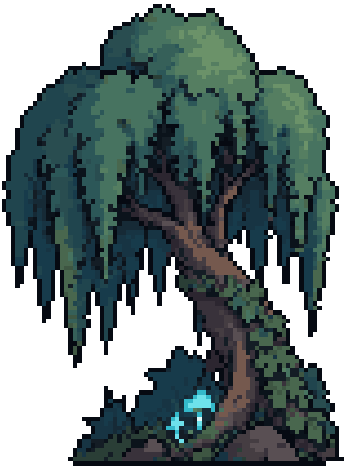
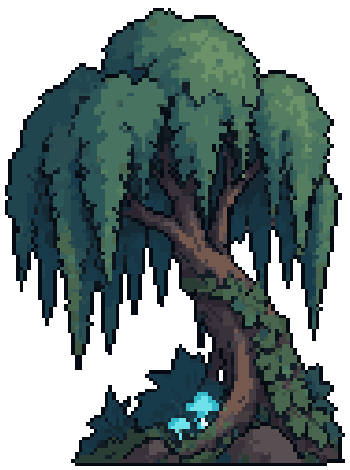
Gros arbres du fond : grain de 5 px d'ecran (6 etait trop gros)

Changed region(s): [[0.0, 0.0298, 1.0, 1.0], [0.4286, 0.0, 0.7143, 0.1191]]

diff --git a/src/data/pixel_fixed.js b/src/data/pixel_fixed.js
@@ -3,14 +3,14 @@
 // BootScene les affiche sans lissage (NEAREST) ; import_codex_assets.py ne
 // les réécrit pas. `f` : px de l'image = 1 pixel dessiné ; `set` : le lot.
 const PIXEL_FIXED = {
-  "assets/decors/arbres_frames/arbre_0.png": {"f":4.44,"set":"files:assets/decors/arbres_frames/arbre_0.png"},
-  "assets/decors/arbres_frames/arbre_1.png": {"f":4.44,"set":"files:assets/decors/arbres_frames/arbre_1.png"},
-  "assets/decors/arbres_frames/arbre_2.png": {"f":4.44,"set":"files:assets/decors/arbres_frames/arbre_2.png"},
-  "assets/decors/arbres_frames/arbre_3.png": {"f":4.44,"set":"files:assets/decors/arbres_frames/arbre_3.png"},
-  "assets/decors/arbres_frames/arbre_4.png": {"f":4.44,"set":"files:assets/decors/arbres_frames/arbre_4.png"},
-  "assets/decors/arbres_frames/arbre_5.png": {"f":4.44,"set":"files:assets/decors/arbres_frames/arbre_5.png"},
-  "assets/decors/arbres_frames/arbre_6.png": {"f":4.44,"set":"files:assets/decors/arbres_frames/arbre_6.png"},
-  "assets/decors/arbres_frames/arbre_7.png": {"f":4.44,"set":"files:assets/decors/arbres_frames/arbre_7.png"},
+  "assets/decors/arbres_frames/arbre_0.png": {"f":3.7,"set":"files:assets/decors/arbres_frames/arbre_0.png"},
+  "assets/decors/arbres_frames/arbre_1.png": {"f":3.7,"set":"files:assets/decors/arbres_frames/arbre_1.png"},
+  "assets/decors/arbres_frames/arbre_2.png": {"f":3.7,"set":"files:assets/decors/arbres_frames/arbre_2.png"},
+  "assets/decors/arbres_frames/arbre_3.png": {"f":3.7,"set":"files:assets/decors/arbres_frames/arbre_3.png"},
+  "assets/decors/arbres_frames/arbre_4.png": {"f":3.7,"set":"files:assets/decors/arbres_frames/arbre_4.png"},
+  "assets/decors/arbres_frames/arbre_5.png": {"f":3.7,"set":"files:assets/decors/arbres_frames/arbre_5.png"},
+  "assets/decors/arbres_frames/arbre_6.png": {"f":3.7,"set":"files:assets/decors/arbres_frames/arbre_6.png"},
+  "assets/decors/arbres_frames/arbre_7.png": {"f":3.7,"set":"files:assets/decors/arbres_frames/arbre_7.png"},
   "assets/decors/deco_item_frames/bosquet/bosquet_antler_totem.png": {"f":3.64,"set":"files:assets/decors/deco_item_frames/bosquet/bosquet_antler_totem.png"},
   "assets/decors/deco_item_frames/bosquet/bosquet_arbre.png": {"f":2.35,"set":"files:assets/decors/deco_item_frames/bosquet/bosquet_arbre.png"},
   "assets/decors/deco_item_frames/bosquet/bosquet_arbre_2.png": {"f":2.35,"set":"files:assets/decors/deco_item_frames/bosquet/bosquet_arbre_2.png"},

diff --git a/tools/pixelfix_decors.py b/tools/pixelfix_decors.py
@@ -29,8 +29,8 @@ FIXED = [  # (motif, échelle d'affichage)
     ('assets/decors/plantes_frames/hplante_*.png', 0.6),
     # plantes du second plan : 3 px d'écran (2 px jugé trop fin) -> échelle comptée aux deux tiers
     ('assets/decors/sous_bois_frames/*.png', 0.45 / 1.5),
-    # gros arbres du fond : gros pixels, 6 px d'écran (4 trop fin, 8 trop gros : entre-deux du 2026-11-11) -> échelle comptée au tiers
-    ('assets/decors/arbres_frames/*.png', 1.35 / 3),
+    # gros arbres du fond : gros pixels, 5 px d'écran (4 trop fin, 6 trop gros, réglé le 2026-11-11) -> échelle divisée par 2,5
+    ('assets/decors/arbres_frames/*.png', 1.35 / 2.5),
 ]
 
 

diff --git a/CLAUDE.md b/CLAUDE.md
@@ -129,7 +129,7 @@ ligne de marche du jeu par défaut. Hauteur de marche : `448 + GROUND_STAND_SINK
   d'écran selon l'échelle d'affichage, 24 couleurs, contour propre). **Fonds et gros arbres du
   fond** : gros pixels, 6 px d'écran (4 trop fin, 8 trop gros) (fonds `fond_*.png` et ciel : `--tileable --factor 8.4
   --colors 32` ; îles lointaines et nuages : `--factor 8.4 --colors 24` ; arbres :
-  `--factor 4.44` ; sous-bois du second plan : 3 px, `--factor 6.67`, déjà réglé ainsi dans `pixelfix_decors.py`).
+  `--factor 3.7` (5 px ; les fonds restent à 6) ; sous-bois du second plan : 3 px, `--factor 6.67`, déjà réglé ainsi dans `pixelfix_decors.py`).
   Brumes, nappes, soleil et vignette : laissés tels quels (dégradés transparents). Non faits :
   formes d'Agarica (loup, singe, aigle, pieuvre, ours, papillon), effets, objets, interface.
   **Êtres vivants** (PNJ, ennemis, boss, animaux, Xara, crapaud, corbeau) : au grain d'Agarica,
